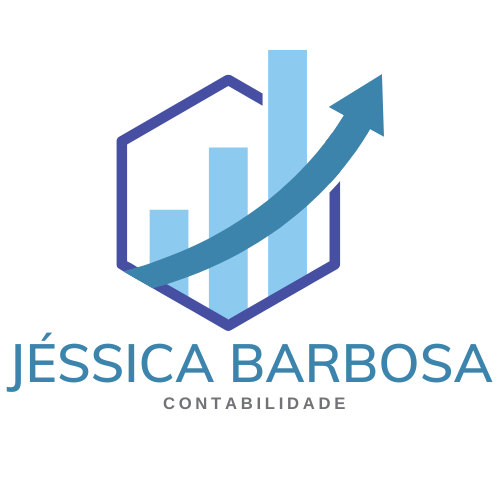
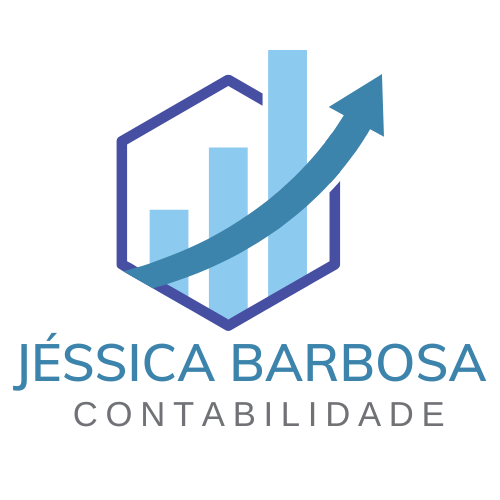
Ajustes na responsividade

Changed region(s): [[0.0, 0.66, 0.99, 0.87]]

diff --git a/index.html b/index.html
@@ -11,12 +11,12 @@
 </head>
 <body class="font-sans antialiased text-gray-800">
     <!-- Navigation -->
-    <nav class="bg-white shadow-sm fixed w-full z-10">
+    <nav class="bg-white shadow-sm fixed w-full z-50">
         <div class="max-w-7xl mx-auto px-4 sm:px-6 lg:px-8">
-            <div class="flex justify-between h-32">
+            <div class="flex justify-between h-20">
                 <div class="flex items-center">
                     <div class=logo>
-                        <img src="/BoRCELLE.png" alt="logo">
+                        <img class="h-20 w-auto" src="/BoRCELLE-2.png" alt="logo">
                     </div>
                 </div>
                 <div class="hidden md:ml-6 md:flex md:items-center md:space-x-8">
@@ -49,7 +49,7 @@
     <header class="hero-gradient pt-24 pb-20 md:pt-32 md:pb-28">
         <div class="max-w-7xl mx-auto px-4 sm:px-6 lg:px-8">
             <div class="lg:grid lg:grid-cols-12 lg:gap-8">
-                <div class="sm:text-center md:max-w-2xl md:mx-auto lg:col-span-6 lg:text-left animate-fade-in">
+                <div class="sm:text-center md:max-w-xl md:mx-auto lg:col-span-6 lg:text-left animate-fade-in">
                     <h1 class="text-4xl tracking-tight font-extrabold text-white sm:text-5xl md:text-6xl">
                         <span class="block">Transformando Negócios</span>
                         <span class="block text-indigo-200">com Estratégia</span>
@@ -67,7 +67,7 @@
                 </div>
                 <div class="mt-12 relative sm:max-w-lg sm:mx-auto lg:mt-0 lg:max-w-none lg:mx-0 lg:col-span-6 lg:flex lg:items-center">
                     <div class="relative mx-auto w-full rounded-lg shadow-lg lg:max-w-md">
-                        <img class="w-full rounded-lg" src="https://images.unsplash.com/photo-1551288049-bebda4e38f71?ixlib=rb-4.0.3&ixid=M3wxMjA3fDB8MHxwaG90by1wYWdlfHx8fGVufDB8fHx8fA%3D%3D&auto=format&fit=crop&w=1470&q=80" alt="Business woman presenting">
+                        <img class="w-full rounded-lg animate-fade-in" src="https://images.unsplash.com/photo-1551288049-bebda4e38f71?ixlib=rb-4.0.3&ixid=M3wxMjA3fDB8MHxwaG90by1wYWdlfHx8fGVufDB8fHx8fA%3D%3D&auto=format&fit=crop&w=1470&q=80" alt="Business woman presenting">
                     </div>
                 </div>
             </div>
